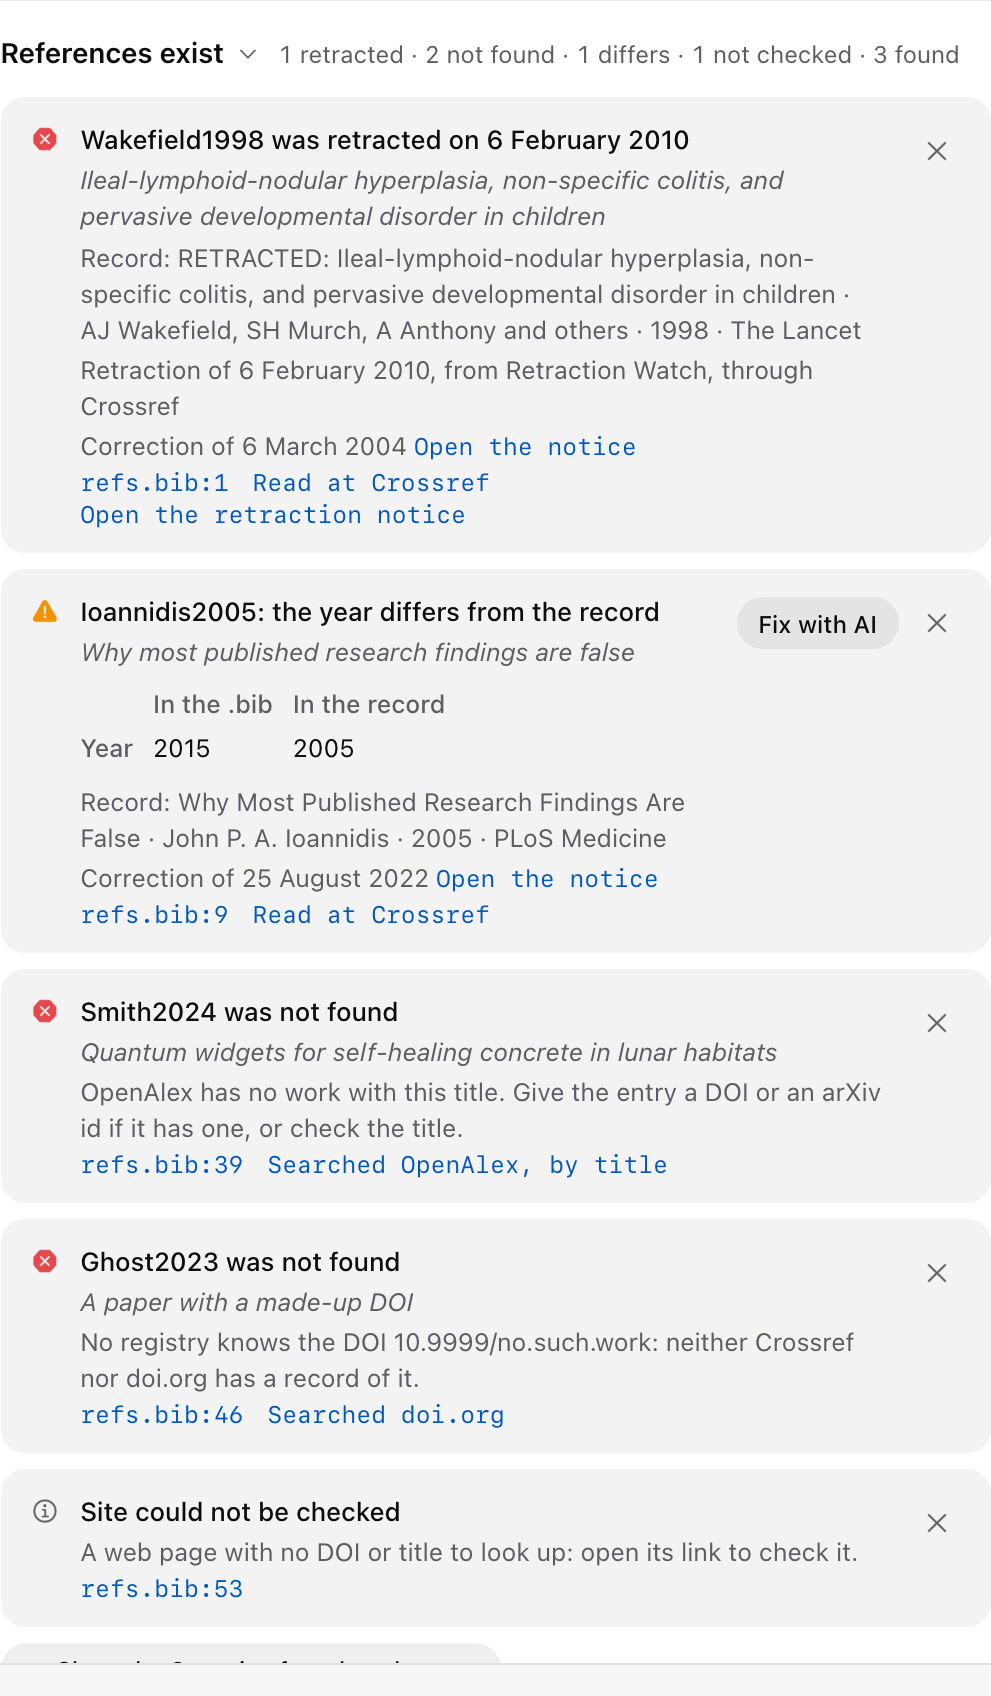
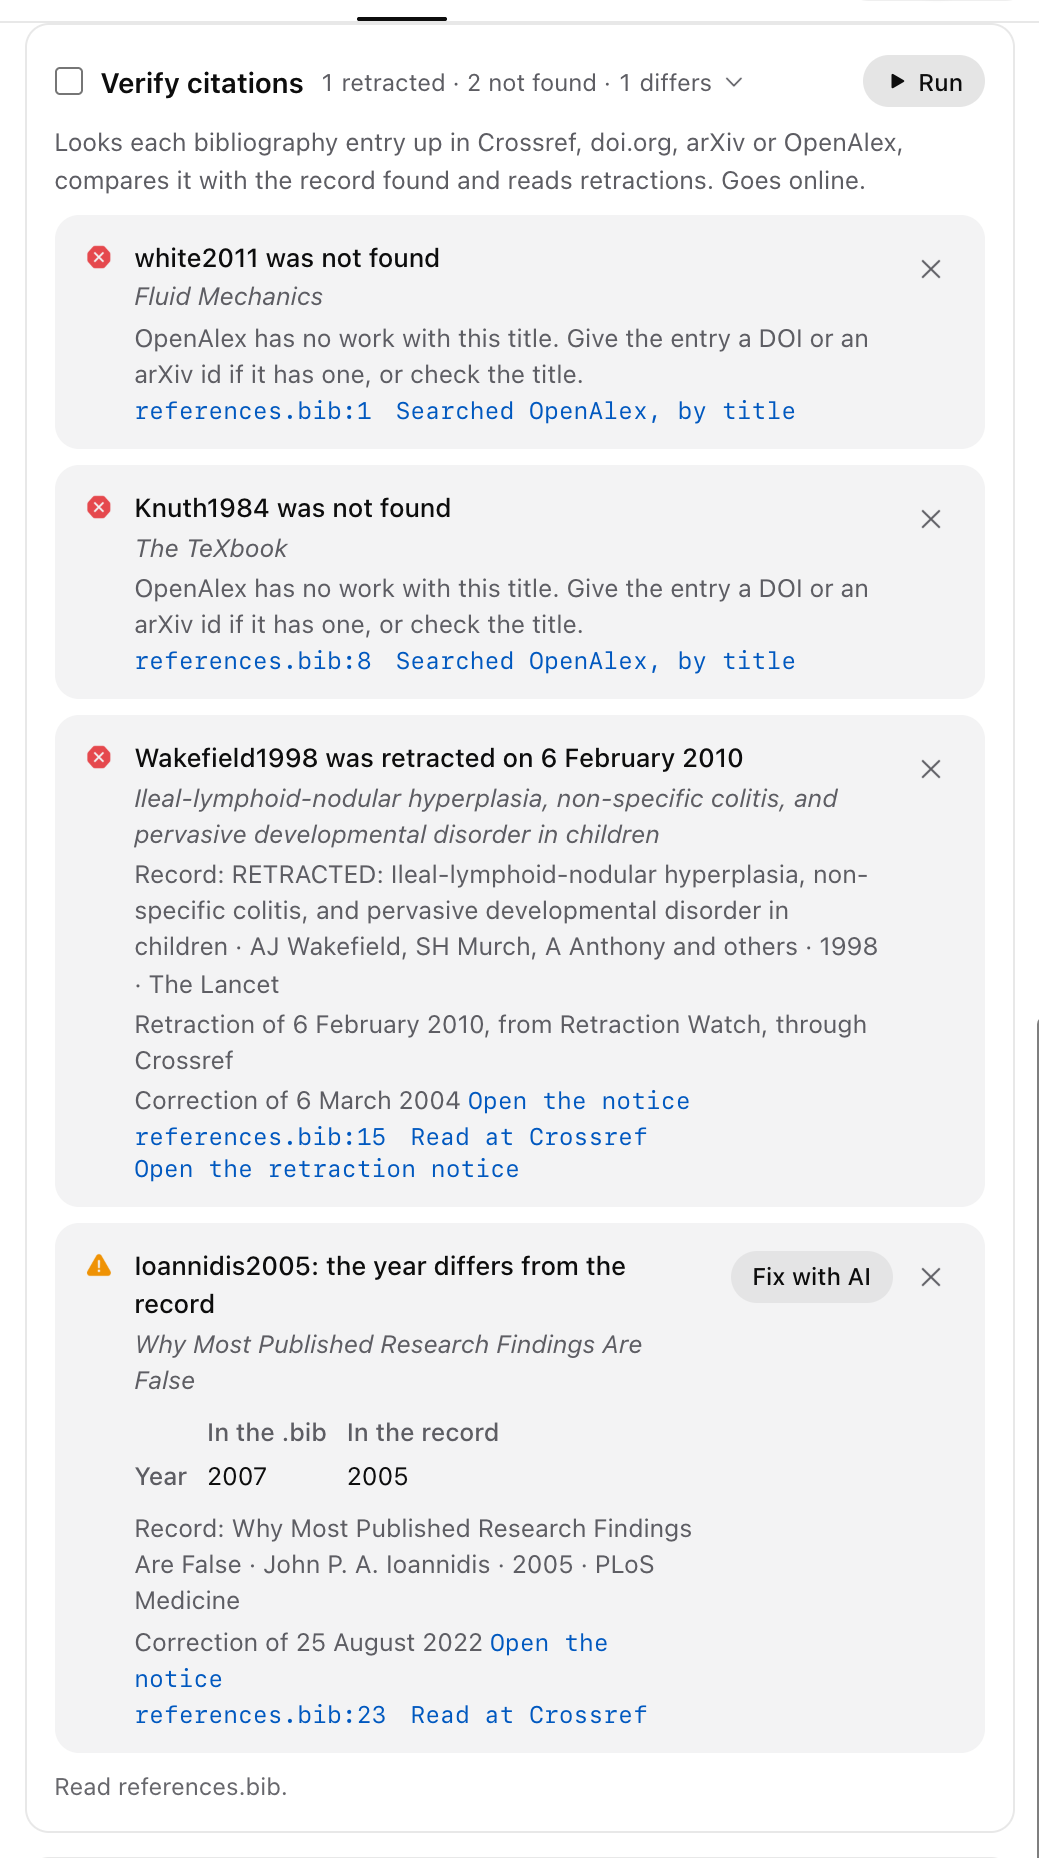
Handbook: Review's panels, Run all and Verify citations, with the pictures retaken

diff --git a/apps/frontend/src/editor/tools/referenceWords.ts b/apps/frontend/src/editor/tools/referenceWords.ts
@@ -1,6 +1,6 @@
 import type { ReferenceCheckRow } from '../../api/client';
 
-// Review’s References exist: what each row of the check says, in words, and as the report copies it.
+// Review’s Verify citations: what each row of the check says, in words, and as the report copies it.
 
 const MONTHS = ['January', 'February', 'March', 'April', 'May', 'June', 'July', 'August', 'September', 'October', 'November', 'December'];
 
@@ -62,6 +62,6 @@ export function checkReport(rows: ReferenceCheckRow[]) {
   return out;
 }
 
-/** Which .bib files References exist read, and what it noticed (a file the document loads that is missing, none at all). */
+/** Which .bib files Verify citations read, and what it noticed (a file the document loads that is missing, none at all). */
 export const existRead = ({ bibFiles, note }: { bibFiles?: string[]; note?: string }) =>
   [bibFiles?.length ? `Read ${bibFiles.join(', ')}.` : '', note || ''].filter(Boolean).join(' ');

diff --git a/apps/backend/src/services/referenceCheck.js b/apps/backend/src/services/referenceCheck.js
@@ -1,4 +1,4 @@
-// Tools › Review's “References exist” and the agents' check_references: each entry of the project's bibliography
+// Tools › Review's “Verify citations” and the agents' check_references: each entry of the project's bibliography
 // looked up in the source its identifier names (Crossref or doi.org for a DOI, arXiv for an arXiv id, OpenAlex for a
 // title alone) and compared with it by code, field by field, with retractions read from Crossref's updates (Retraction
 // Watch's among them) and OpenAlex's flag. No model is used. Each row carries what was read and where, so the user can

diff --git a/apps/frontend/src/editor/tools/ReferenceCheck.tsx b/apps/frontend/src/editor/tools/ReferenceCheck.tsx
@@ -14,7 +14,7 @@ const Out = ({ href, children }: { href: string; children: ReactNode }) => (
 );
 
 /**
- * Review’s References exist: each entry the check could not find as it is, with the evidence: the record it read
+ * Review’s Verify citations: each entry the check could not find as it is, with the evidence: the record it read
  * and where, the fields that differ side by side, and the retraction notice. The found ones are a count to open.
  */
 export default function ReferenceCheckRows({

diff --git a/apps/backend/src/routes/references.js b/apps/backend/src/routes/references.js
@@ -21,7 +21,7 @@ async function withProject(req, reply, run) {
 }
 
 export function registerReferenceRoutes(fastify) {
-  // Review's References exist: each entry against its record, by code
+  // Review's Verify citations: each entry against its record, by code
   fastify.post('/api/references/check', async (req, reply) => {
     // doc: the document reviewed, whose own .bib files are checked
     const { keys, doc } = req.body || {};

diff --git a/apps/frontend/src/api/client.ts b/apps/frontend/src/api/client.ts
@@ -1864,7 +1864,7 @@ export function addReference(payload: { projectId: string; candidateId: string; 
   );
 }
 
-/** A .bib entry against the record its DOI, arXiv id or title finds (Review’s References exist), and where it was read. */
+/** A .bib entry against the record its DOI, arXiv id or title finds (Review’s Verify citations), and where it was read. */
 export interface ReferenceCheckRow {
   key: string;
   file: string;

diff --git a/apps/frontend/src/editor/tools/referenceWords.check.ts b/apps/frontend/src/editor/tools/referenceWords.check.ts
@@ -1,4 +1,4 @@
-// Review’s References exist in words. Run: bundle with esbuild (see .claude/stages/RULES.md) and run with node.
+// Review’s Verify citations in words. Run: bundle with esbuild (see .claude/stages/RULES.md) and run with node.
 import type { ReferenceCheckRow } from '../../api/client';
 import { checkCounts, checkHead, checkReport, dateWords, existRead } from './referenceWords';
 

diff --git a/apps/frontend/src/styles/tools.css b/apps/frontend/src/styles/tools.css
@@ -1837,7 +1837,7 @@ span.log-location {
   gap: 2px 12px;
 }
 
-/* References exist: the fields that differ, the .bib's and the record's side by side */
+/* Verify citations: the fields that differ, the .bib's and the record's side by side */
 .refcheck-diff {
   margin: 4px 0;
   border-collapse: collapse;
